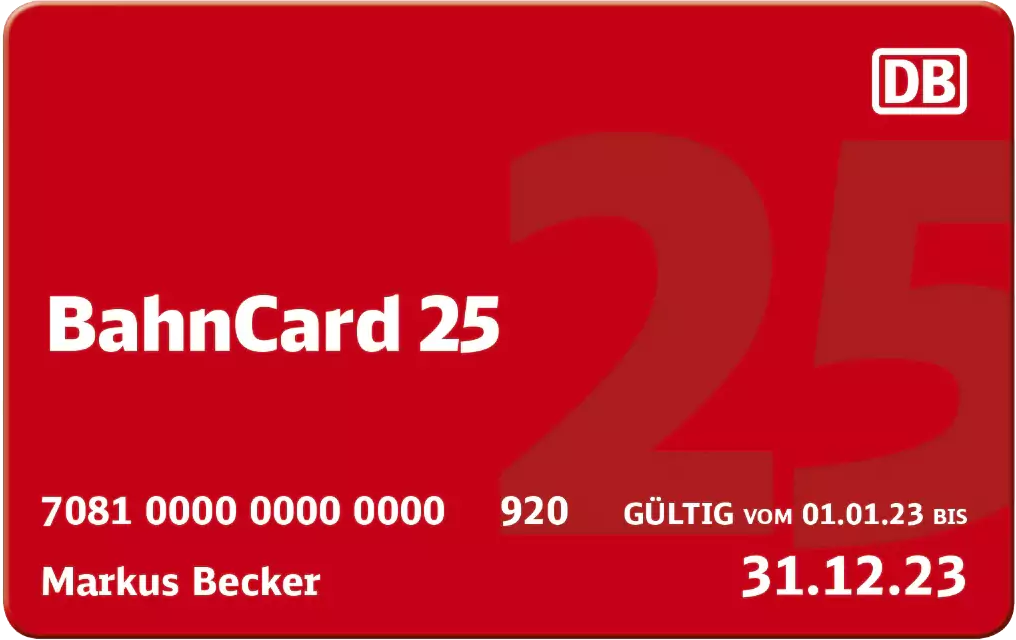
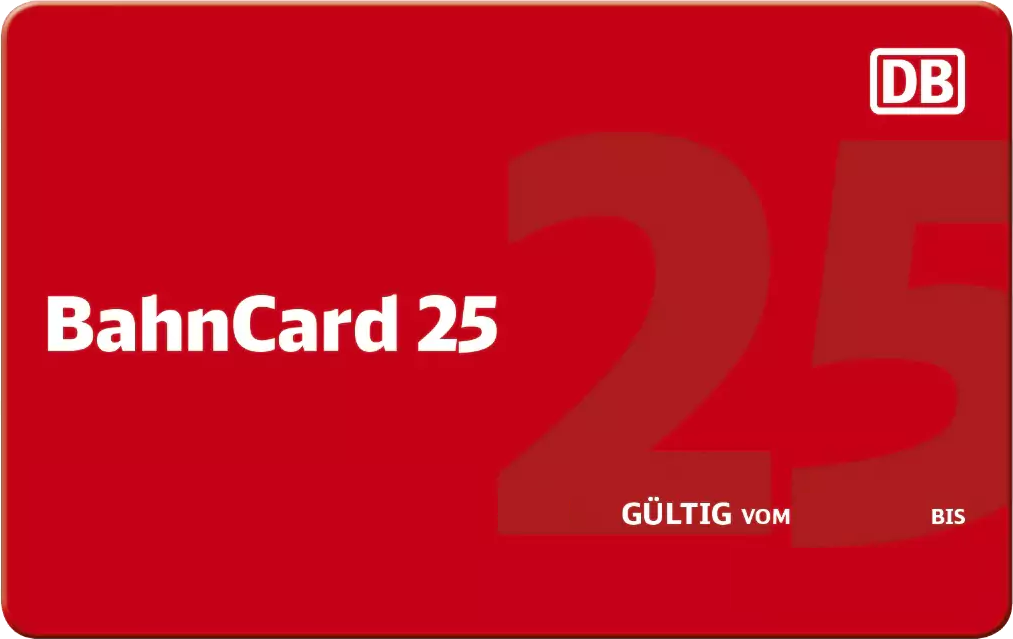
Update assets

diff --git a/src/service/bahncard.ts b/src/service/bahncard.ts
@@ -20,11 +20,13 @@ const dateFormat = new Intl.DateTimeFormat("de", {
     dateStyle: "medium",
 });
 
-export async function drawBahncard100Image(
+export async function drawBahncardImage(
     _context: BotContext,
     owner: User,
     template: LootTemplate,
     loot: Loot,
+    drawAvatar: boolean,
+    serialNumber: string,
 ): Promise<Buffer> {
     // biome-ignore lint/style/noNonNullAssertion: We check for assetPath below
     const assetPath = template.asset!;
@@ -36,23 +38,25 @@ export async function drawBahncard100Image(
 
     ctx.drawImage(backgroundImage, 0, 0);
 
-    const avatar = await loadImage(
-        owner.displayAvatarURL({ forceStatic: true, extension: "png", size: 256 }),
-    );
+    if (drawAvatar) {
+        const avatar = await loadImage(
+            owner.displayAvatarURL({ forceStatic: true, extension: "png", size: 256 }),
+        );
 
-    const aspectRatio = avatar.width / avatar.height;
-    const avatarSize =
-        aspectRatio > 1
-            ? {
-                  width: avatarMaxSize.width,
-                  height: avatarMaxSize.width / aspectRatio,
-              }
-            : {
-                  width: avatarMaxSize.height * aspectRatio,
-                  height: avatarMaxSize.height,
-              };
+        const aspectRatio = avatar.width / avatar.height;
+        const avatarSize =
+            aspectRatio > 1
+                ? {
+                      width: avatarMaxSize.width,
+                      height: avatarMaxSize.width / aspectRatio,
+                  }
+                : {
+                      width: avatarMaxSize.height * aspectRatio,
+                      height: avatarMaxSize.height,
+                  };
 
-    ctx.drawImage(avatar, avatarPos.x, avatarPos.y, avatarSize.width, avatarSize.height);
+        ctx.drawImage(avatar, avatarPos.x, avatarPos.y, avatarSize.width, avatarSize.height);
+    }
 
     drawText(
         namePos,
@@ -69,7 +73,7 @@ export async function drawBahncard100Image(
         "bottom",
         "#ffffff",
         `38px ${fontService.names.dbNeoBlack}`,
-        groupDigits(owner.id.toString()),
+        groupDigits(serialNumber),
     );
 
     drawText(

diff --git a/src/service/lootData.ts b/src/service/lootData.ts
@@ -530,7 +530,15 @@ export const lootTemplateMap: Record<LootKindId, LootTemplate> = {
         emote: ":train:",
         asset: "assets/loot/39-bahncard-25.png",
         initialAttributes: [],
-        drawCustomAsset: bahnCardService.drawBahncard100Image,
+        drawCustomAsset: (context, owner, template, loot) =>
+            bahnCardService.drawBahncardImage(
+                context,
+                owner,
+                template,
+                loot,
+                false,
+                [...owner.id].map(n => (Number(n) * 7) % 10).join(""),
+            ),
     },
     [LootKindId.BAHNCARD_50]: {
         id: LootKindId.BAHNCARD_50,
@@ -541,7 +549,15 @@ export const lootTemplateMap: Record<LootKindId, LootTemplate> = {
         emote: ":train:",
         asset: "assets/loot/40-bahncard-50.png",
         initialAttributes: [],
-        drawCustomAsset: bahnCardService.drawBahncard100Image,
+        drawCustomAsset: (context, owner, template, loot) =>
+            bahnCardService.drawBahncardImage(
+                context,
+                owner,
+                template,
+                loot,
+                false,
+                [...owner.id].map(n => (Number(n) * 13) % 10).join(""),
+            ),
     },
     [LootKindId.BAHNCARD_100]: {
         id: LootKindId.BAHNCARD_100,
@@ -552,7 +568,8 @@ export const lootTemplateMap: Record<LootKindId, LootTemplate> = {
         emote: ":train:",
         asset: "assets/loot/41-bahncard-100.png",
         initialAttributes: [],
-        drawCustomAsset: bahnCardService.drawBahncard100Image,
+        drawCustomAsset: (context, owner, template, loot) =>
+            bahnCardService.drawBahncardImage(context, owner, template, loot, true, owner.id),
     },
 } as const;
 
